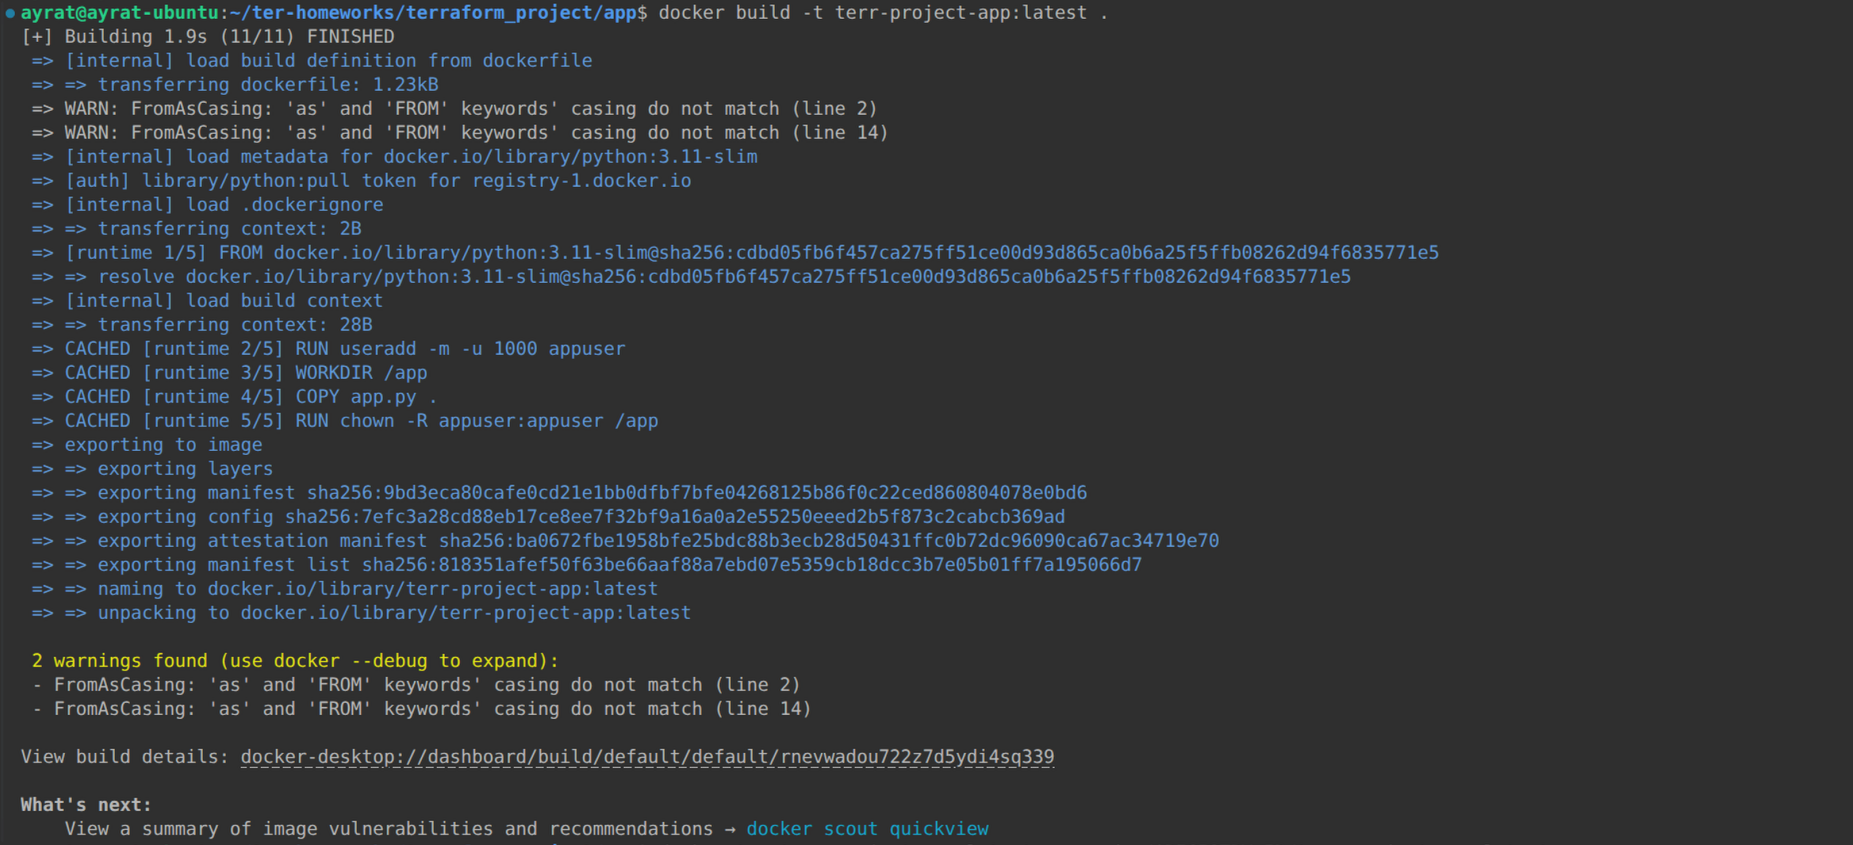
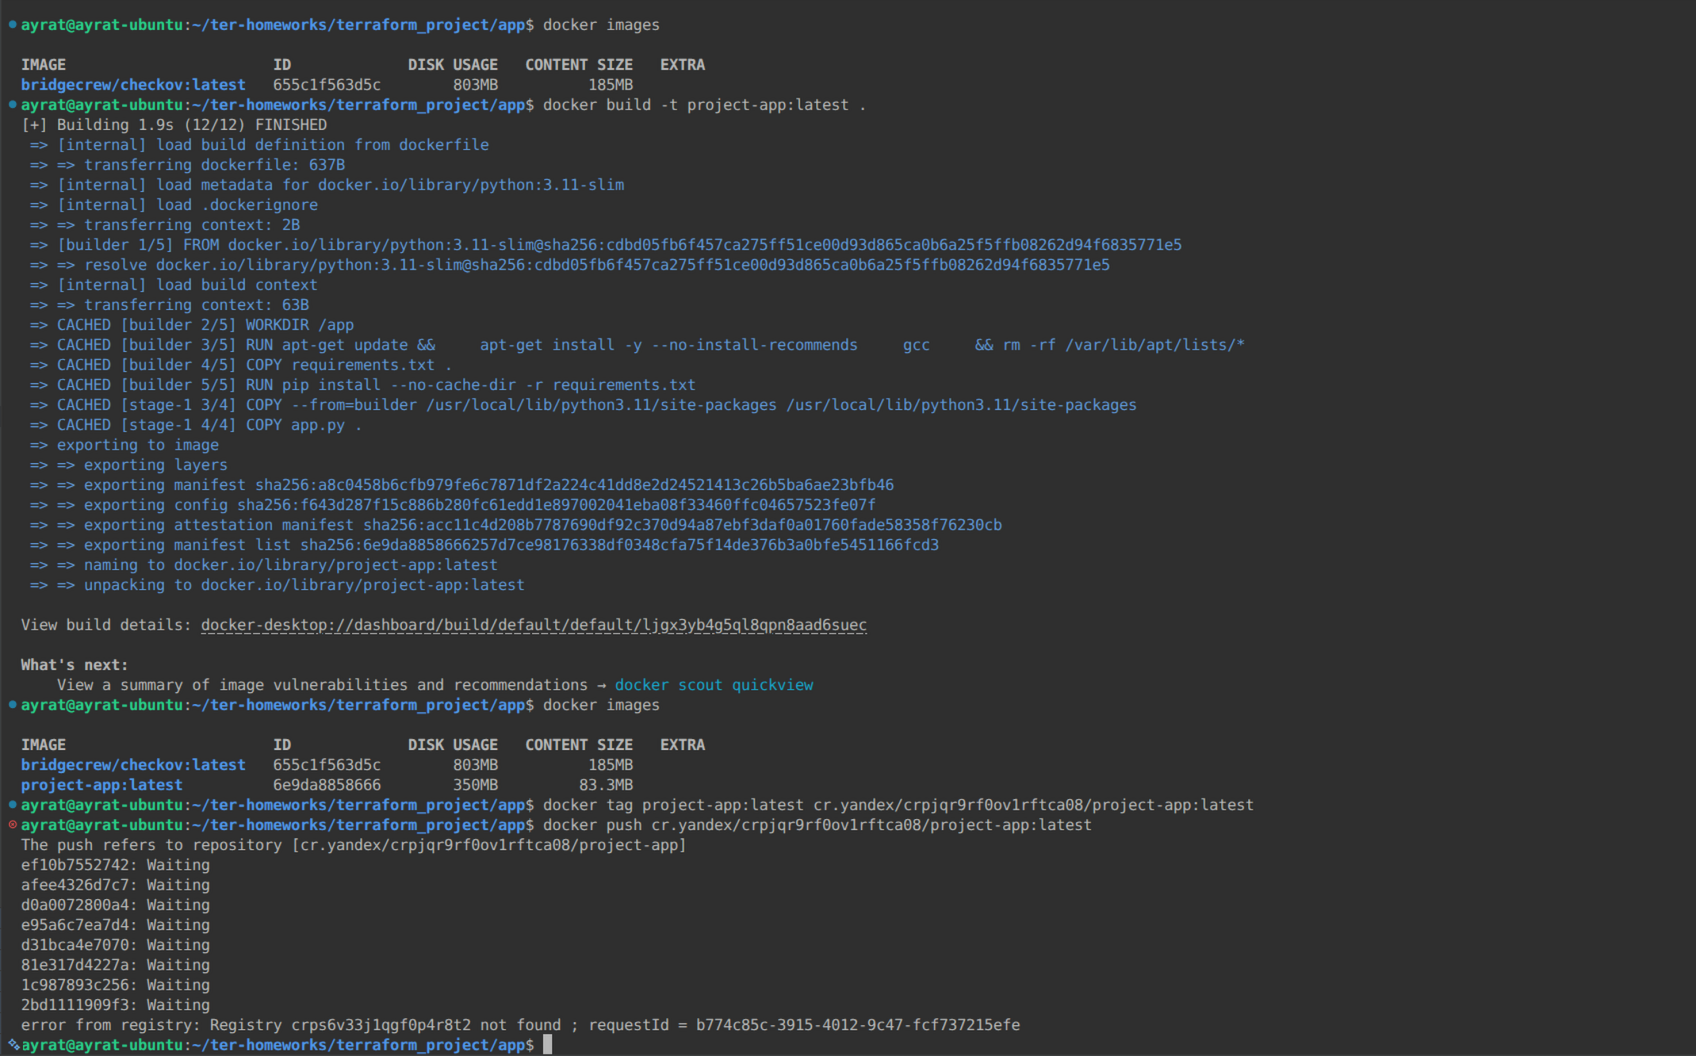
задание 3

Changed region(s): [[0.0, 0.0, 0.7812, 1.0]]

diff --git a/terraform_project/app/app.py b/terraform_project/app/app.py
@@ -1,37 +1,25 @@
-from flask import Flask, jsonify
+from flask import Flask
 import os
-import mysql.connector
+import pymysql
 
 app = Flask(__name__)
 
-DB_CONFIG = {
-    'host': os.getenv('DB_HOST', 'localhost'),
-    'port': int(os.getenv('DB_PORT', 3306)),
-    'user': os.getenv('DB_USER', 'user-db'),
-    'password': os.getenv('DB_PASSWORD', 'passwd_db'),
-    'database': os.getenv('DB_NAME', 'db1')
-}
+DB_HOST = os.environ.get('DB_HOST', 'localhost')
+DB_USER = os.environ.get('DB_USER', 'app_user')
+DB_PASSWORD = os.environ.get('DB_PASSWORD', 'password')
+DB_NAME = os.environ.get('DB_NAME', 'app_database')
 
 @app.route('/')
-def health():
-    return jsonify({'service':'yc-final-project','status':'ok','version':'1.0.0'}), 200
-
-@app.route('/db')
-def db_check():
+def index():
     try:
-        conn = mysql.connector.connect(**DB_CONFIG)
-        cursor = conn.cursor()
-        cursor.execute("SELECT VERSION()")
-        version = cursor.fetchone()[0]
-        cursor.close()
+        conn = pymysql.connect(host=DB_HOST, user=DB_USER, password=DB_PASSWORD, database=DB_NAME)
         conn.close()
-        return jsonify({'status':'connected','mysql_version':version}), 200
+        status = "Успешно подключено к MySQL!"
     except Exception as e:
-        return jsonify({'status':'error','message':str(e)}), 500
-
-@app.route('/api/data')
-def get_data():
-    return jsonify({'message':'Я был тут!','db_host':DB_CONFIG['host']}), 200
+        status = f"Ошибка подключения к MySQL: {e}"
+    
+    return f"<h1>Статус приложения: Запущено</h1><p>{status}</p>"
 
 if __name__ == '__main__':
-    app.run(host='0.0.0.0', port=80)
+    app.run(host='0.0.0.0', port=5000)
+    

diff --git a/terraform_project/README.md b/terraform_project/README.md
@@ -39,32 +39,49 @@
 
 
 **Выполнение:**  
-  Создал файл cloud-init.yml и с его помощью установил Docker и Docker Compose.  
-*cloud-init.yml*
+  Создал файл cloud-init.yml.tpl и с его помощью установил Docker и Docker Compose.  
+*cloud-init.yml.tpl*
 ```
-users:
-  - name: ubuntu
-    groups: sudo
-    shell: /bin/bash
-    sudo: ["ALL=(ALL) NOPASSWD:ALL"]
-    ssh-authorized-keys:
-      - ${ssh_public_key}
+#cloud-config
 package_update: true
 package_upgrade: true
+packages:
+  - apt-transport-https
+  - ca-certificates
+  - curl
+  - gnupg
+  - lsb-release
+write_files:
+  - path: /opt/app/.env
+    content: |
+      DB_HOST=${db_host}
+      DB_PORT=3306
+      DB_USER=${db_user}
+      DB_PASSWORD=${db_password}
+      DB_NAME=${db_name}
+  - path: /opt/app/docker-compose.yml
+    content: |
+      services:
+        web:
+          image: cr.yandex/${registry_id}/web-app:latest
+          container_name: web-app
+          restart: unless-stopped
+          ports:
+            - "80:80"
+          env_file:
+            - .env
+          healthcheck:
+            test: ["CMD", "python", "-c", "import urllib.request; urllib.request.urlopen('http://localhost:80/')"]
+            interval: 30s
+            timeout: 10s
+            retries: 3
 runcmd:
-  - sudo apt update
-  - sudo apt install ca-certificates curl
-  - sudo install -m 0755 -d /etc/apt/keyrings
-  - sudo curl -fsSL https://download.docker.com/linux/ubuntu/gpg -o /etc/apt/keyrings/docker.asc
-  - sudo chmod a+r /etc/apt/keyrings/docker.asc
-  - sudo tee /etc/apt/sources.list.d/docker.sources <<EOF
-   Types: deb
-   URIs: https://download.docker.com/linux/ubuntu
-   Components: stable
-   Architectures: $(dpkg --print-architecture)
-   Signed-By: /etc/apt/keyrings/docker.asc EOF
-  - sudo apt update
-  - sudo apt install -y docker-ce docker-ce-cli containerd.io docker-buildx-plugin docker-compose-plugin
+  - curl -fsSL https://download.docker.com/linux/ubuntu/gpg | sudo gpg --dearmor -o /usr/share/keyrings/docker-archive-keyring.gpg
+  - echo "deb [arch=amd64 signed-by=/usr/share/keyrings/docker-archive-keyring.gpg] https://download.docker.com/linux/ubuntu $(lsb_release -cs) stable" | sudo tee /etc/apt/sources.list.d/docker.list > /dev/null
+  - sudo apt-get update
+  - sudo apt-get install -y docker-ce docker-ce-cli containerd.io docker-compose-plugin
+  - sudo usermod -aG docker ubuntu
+  - cd /opt/app && sudo docker compose up -d
 ```
   ![Скрин версий докер](img/img7.png)  
 
@@ -74,6 +91,13 @@ runcmd:
 
 
 **Выполнение:**  
+ Создал поддиректорию и в нём создал три файла (dockerfile, app.py и requirements.txt). Выполнил сборку образа и тегрирование, пытался отправить в Yandex Container Registry. Неудачная отправка. Хотя идентификатор реестра указан верно. Код переделывал, первая отправка прошла без проблем. Сейчас в тупике. Роли и права доступа предоставлены.  
+
+  ![Скрин сборки образа](img/img8.png)  
+
+  ![Скрин сборки проекта](img/img9.png)  
+
+  ![Скрин реестра](img/img10.png)  
 
 
 
